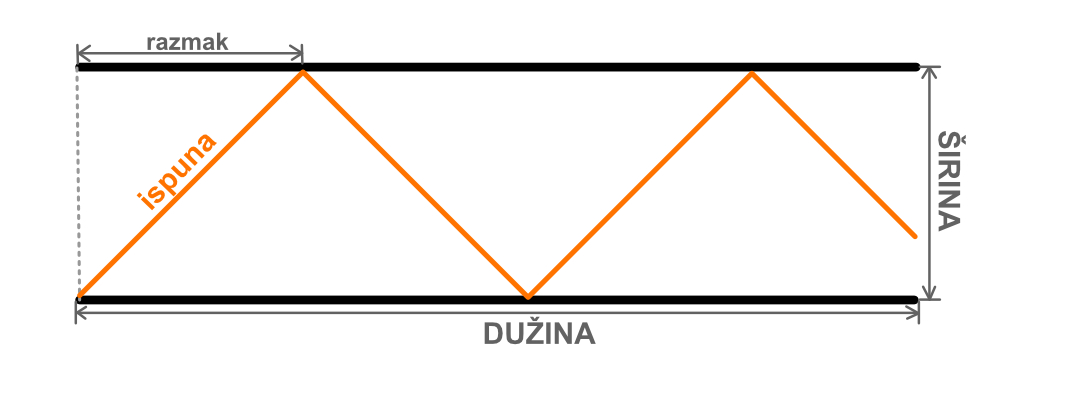
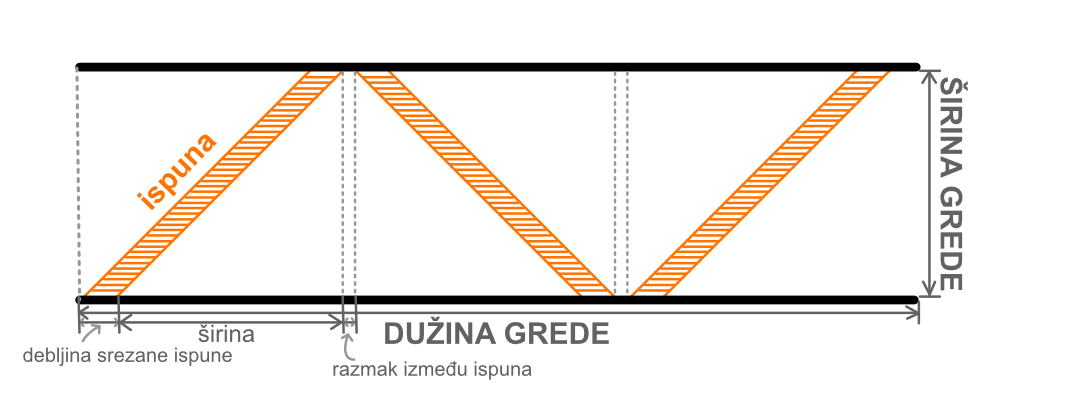
feat(Grede): more input values

diff --git a/components/Grede/GredeProvider.tsx b/components/Grede/GredeProvider.tsx
@@ -8,16 +8,21 @@ interface Props {
 export const GredeProvider: FC<Props> = ({ children }) => {
   const [length, setLength] = useState<number>(0);
   const [width, setWidth] = useState<number>(0);
-  const [spaceX, setSpaceX] = useState<number>(0);
   const [count, setCount] = useState<number>(0);
   const [isponaLength, setIsponaLength] = useState<number>(0);
   const [pipesLength, setPipesLength] = useState<number>(0);
+  const [isponaWidth, setIsponaWidth] = useState<number>(0);
+  const [spaceBetIspona, setSpaceBetIspona] = useState<number>(0);
+  const [widthCutIspona, setWidthCutIspona] = useState<number>(0);
+  const [lengthBoughtPipe, setLengthBoughtPipe] = useState<number>(0);
+  const [countOfOneBoughtPipe, setCountOfOneBoughtPipe] = useState<number>(0);
+  const [countPipesToBuy, setCountPipesToBuy] = useState<number>(0);
 
   const transformDegToRad = (deg: number) => {
     return deg * (Math.PI / 180);
   };
-  const calcCount = () => {
-    const value = Math.trunc(length / width);
+  const calcCount = (space: number) => {
+    const value = Math.trunc(length / space);
     setCount(value);
 
     return value;
@@ -29,21 +34,48 @@ export const GredeProvider: FC<Props> = ({ children }) => {
 
     return value;
   };
-  const calcSpaceX = (countValue: number, isponaValue: number) => {
-    const value = Math.sqrt(Math.pow(isponaValue, 2) - Math.pow(width, 2));
-    setSpaceX(roundToTwo(value));
-  };
 
   const calcPipesLength = (isponaValue: number, countValue: number) => {
     const value = isponaValue * countValue;
     setPipesLength(roundToTwo(value));
   };
 
+  const calcWidthCutIspona = () => {
+    const value = roundToTwo(
+      Math.sqrt(Math.pow(isponaWidth, 2) + Math.pow(isponaWidth, 2))
+    );
+    setWidthCutIspona(value);
+
+    return value;
+  };
+
+  const calcSpace = (widthCutIsponaValue: number) => {
+    return roundToTwo(width + widthCutIsponaValue + spaceBetIspona);
+  };
+
+  const calcCountOfOneBoughtPipe = (isponaLengthValue: number) => {
+    const value = Math.trunc(
+      (lengthBoughtPipe - isponaWidth) / isponaLengthValue
+    );
+
+    setCountOfOneBoughtPipe(value);
+
+    return value;
+  };
+
+  const calcPipesToBuy = (countValue: number, cutFromOnePipe: number) => {
+    const value = Math.ceil(countValue / cutFromOnePipe);
+    setCountPipesToBuy(value);
+  };
+
   const calculate = () => {
-    const countValue = calcCount();
-    const isponaValue = calcIsponaLength();
-    calcSpaceX(countValue, isponaValue);
-    calcPipesLength(isponaValue, countValue);
+    const isponaLengthValue = calcIsponaLength();
+    const widthCutIsponaValue = calcWidthCutIspona();
+    const space = calcSpace(widthCutIsponaValue);
+    const countValue = calcCount(space);
+    const cutFromOnePipe = calcCountOfOneBoughtPipe(isponaLengthValue);
+    calcPipesToBuy(countValue, cutFromOnePipe);
+    calcPipesLength(isponaLengthValue, countValue);
   };
 
   const reset = () => {
@@ -52,7 +84,12 @@ export const GredeProvider: FC<Props> = ({ children }) => {
     setCount(0);
     setPipesLength(0);
     setIsponaLength(0);
-    setSpaceX(0);
+    setCountPipesToBuy(0);
+    setCountOfOneBoughtPipe(0);
+    setWidthCutIspona(0);
+    setIsponaWidth(0);
+    setLengthBoughtPipe(0);
+    setSpaceBetIspona(0);
   };
 
   return (
@@ -60,10 +97,18 @@ export const GredeProvider: FC<Props> = ({ children }) => {
       value={{
         length,
         width,
-        spaceX,
         count,
         pipesLength,
         isponaLength,
+        isponaWidth,
+        setIsponaWidth,
+        spaceBetIspona,
+        setSpaceBetIspona,
+        widthCutIspona,
+        lengthBoughtPipe,
+        setLengthBoughtPipe,
+        countOfOneBoughtPipe,
+        countPipesToBuy,
         setLength,
         setWidth,
         calculate,

diff --git a/components/Grede/ResultsGredeComponent.tsx b/components/Grede/ResultsGredeComponent.tsx
@@ -3,7 +3,15 @@ import { useGredeContext } from "../../hooks/useGredeContext";
 import Ionicons from "@expo/vector-icons/Ionicons";
 
 export const ResultsGredeComponent = () => {
-  const { isponaLength, spaceX, pipesLength, count } = useGredeContext();
+  const {
+    isponaLength,
+    pipesLength,
+    count,
+    widthCutIspona,
+    lengthBoughtPipe,
+    countOfOneBoughtPipe,
+    countPipesToBuy,
+  } = useGredeContext();
   return (
     <View style={styles.container}>
       <View style={[styles.row, { alignItems: "center" }]}>
@@ -15,16 +23,24 @@ export const ResultsGredeComponent = () => {
         <Text style={styles.bold}>{isponaLength} cm</Text>
       </View>
       <View style={styles.row}>
-        <Text>Izračunat razmak: </Text>
-        <Text style={styles.bold}>{spaceX} cm</Text>
-      </View>
-      <View style={styles.row}>
         <Text>Broj celih ispuna: </Text>
         <Text style={styles.bold}>{count} komada</Text>
       </View>
       <View style={styles.row}>
         <Text>Ukupna dužina cevi za cele ispune: </Text>
         <Text style={styles.bold}>{pipesLength} cm</Text>
+      </View>
+      <View style={styles.row}>
+        <Text>Debljina srezane ispune: </Text>
+        <Text style={styles.bold}>{widthCutIspona} cm</Text>
+      </View>
+      <View style={styles.row}>
+        <Text>Broj ispuna iz jedne {lengthBoughtPipe}cm cevi: </Text>
+        <Text style={styles.bold}>{countOfOneBoughtPipe} komada</Text>
+      </View>
+      <View style={styles.row}>
+        <Text>Broj cevi od {lengthBoughtPipe}cm za kupovinu: </Text>
+        <Text style={styles.bold}>{countPipesToBuy} komada</Text>
       </View>
     </View>
   );
@@ -33,6 +49,7 @@ export const ResultsGredeComponent = () => {
 const styles = StyleSheet.create({
   container: {
     flex: 1,
+    paddingBottom: 20,
   },
   bold: { fontWeight: "bold" },
   row: { flexDirection: "row", justifyContent: "flex-start" },

diff --git a/components/Grede/CalculatingGredeComponent.tsx b/components/Grede/CalculatingGredeComponent.tsx
@@ -9,14 +9,53 @@ import { ResultsGredeComponent } from "./ResultsGredeComponent";
 
 export const CalculatingGredeComponent = () => {
   const requireValue = require("../../assets/input-grede-values.jpg");
-  const { length, width, setWidth, setLength, calculate, reset } =
-    useGredeContext();
+  const {
+    length,
+    width,
+    setWidth,
+    setLength,
+    calculate,
+    reset,
+    isponaWidth,
+    setIsponaWidth,
+    spaceBetIspona,
+    setSpaceBetIspona,
+    lengthBoughtPipe,
+    setLengthBoughtPipe,
+  } = useGredeContext();
   return (
     <KeyboardAvoidContainer>
       <Header title={"parametri grede"} imageSrc={requireValue} />
       <View style={styles.row}>
-        <InputCell value={length} setValue={setLength} label={"Dužina [cm]"} />
-        <InputCell value={width} setValue={setWidth} label={"Širina [cm]"} />
+        <InputCell
+          value={length}
+          setValue={setLength}
+          label={"Dužina grede [cm]"}
+        />
+        <InputCell
+          value={width}
+          setValue={setWidth}
+          label={"Širina grede [cm]"}
+        />
+      </View>
+      <View style={styles.row}>
+        <InputCell
+          value={isponaWidth}
+          setValue={setIsponaWidth}
+          label={"Debljina ispune [cm]"}
+        />
+        <InputCell
+          value={spaceBetIspona}
+          setValue={setSpaceBetIspona}
+          label={"Razmak između ispuna [cm]"}
+        />
+      </View>
+      <View style={styles.row}>
+        <InputCell
+          value={lengthBoughtPipe}
+          setValue={setLengthBoughtPipe}
+          label={"Dužina kupljene cevi [cm]"}
+        />
       </View>
       <CalculateButton title={"Izračunaj"} onPress={calculate} />
       <CalculateButton title={"Resetuj"} onPress={reset} reset={true} />

diff --git a/common/GredeContext.ts b/common/GredeContext.ts
@@ -3,10 +3,18 @@ import { createContext } from "react";
 interface ValuesContextProps {
   length: number;
   width: number;
-  spaceX: number;
   count: number;
   pipesLength: number;
   isponaLength: number;
+  isponaWidth: number;
+  setIsponaWidth: (value: number) => void;
+  spaceBetIspona: number;
+  setSpaceBetIspona: (value: number) => void;
+  widthCutIspona: number;
+  lengthBoughtPipe: number;
+  setLengthBoughtPipe: (value: number) => void;
+  countOfOneBoughtPipe: number;
+  countPipesToBuy: number;
   setLength: (value: number) => void;
   setWidth: (value: number) => void;
   calculate: () => void;
@@ -15,9 +23,17 @@ interface ValuesContextProps {
 export const GredeContext = createContext(<ValuesContextProps>{
   length: 0,
   width: 0,
-  spaceX: 0,
   count: 0,
   pipesLength: 0,
+  isponaWidth: 0,
+  setIsponaWidth: () => {},
+  spaceBetIspona: 0,
+  setSpaceBetIspona: () => {},
+  widthCutIspona: 0,
+  lengthBoughtPipe: 0,
+  setLengthBoughtPipe: () => {},
+  countOfOneBoughtPipe: 0,
+  countPipesToBuy: 0,
   setLength: () => {},
   setWidth: () => {},
   calculate: () => {},

diff --git a/components/HelpView.tsx b/components/HelpView.tsx
@@ -1,4 +1,4 @@
-import { Pressable, StyleSheet, Text } from "react-native";
+import { Image, Pressable, StyleSheet, Text } from "react-native";
 
 interface Props {
   closeHelp: () => void;
@@ -7,6 +7,7 @@ interface Props {
 export const HelpView = ({ closeHelp }: Props) => {
   return (
     <Pressable style={styles.container} onPress={closeHelp}>
+      <Image source={require("../assets/icon.png")} style={styles.icon} />
       <Text style={styles.bold}>Kalkulator konstrukcije krova</Text>
       <Text>Developed by Jaroslav Beredi</Text>
       <Text>2023</Text>
@@ -34,5 +35,9 @@ const styles = StyleSheet.create({
     borderWidth: 1,
     borderColor: "#9f9f9f",
     padding: 20,
+  },
+  icon: {
+    width: 200,
+    height: 200,
   },
 });

diff --git a/components/Binderi/ResultsBinderiComponent.tsx b/components/Binderi/ResultsBinderiComponent.tsx
@@ -68,6 +68,7 @@ export const ResultsBinderiComponent = () => {
 const styles = StyleSheet.create({
   container: {
     flex: 1,
+    paddingBottom: 20,
   },
   bold: { fontWeight: "bold" },
   row: { flexDirection: "row", justifyContent: "flex-start" },
